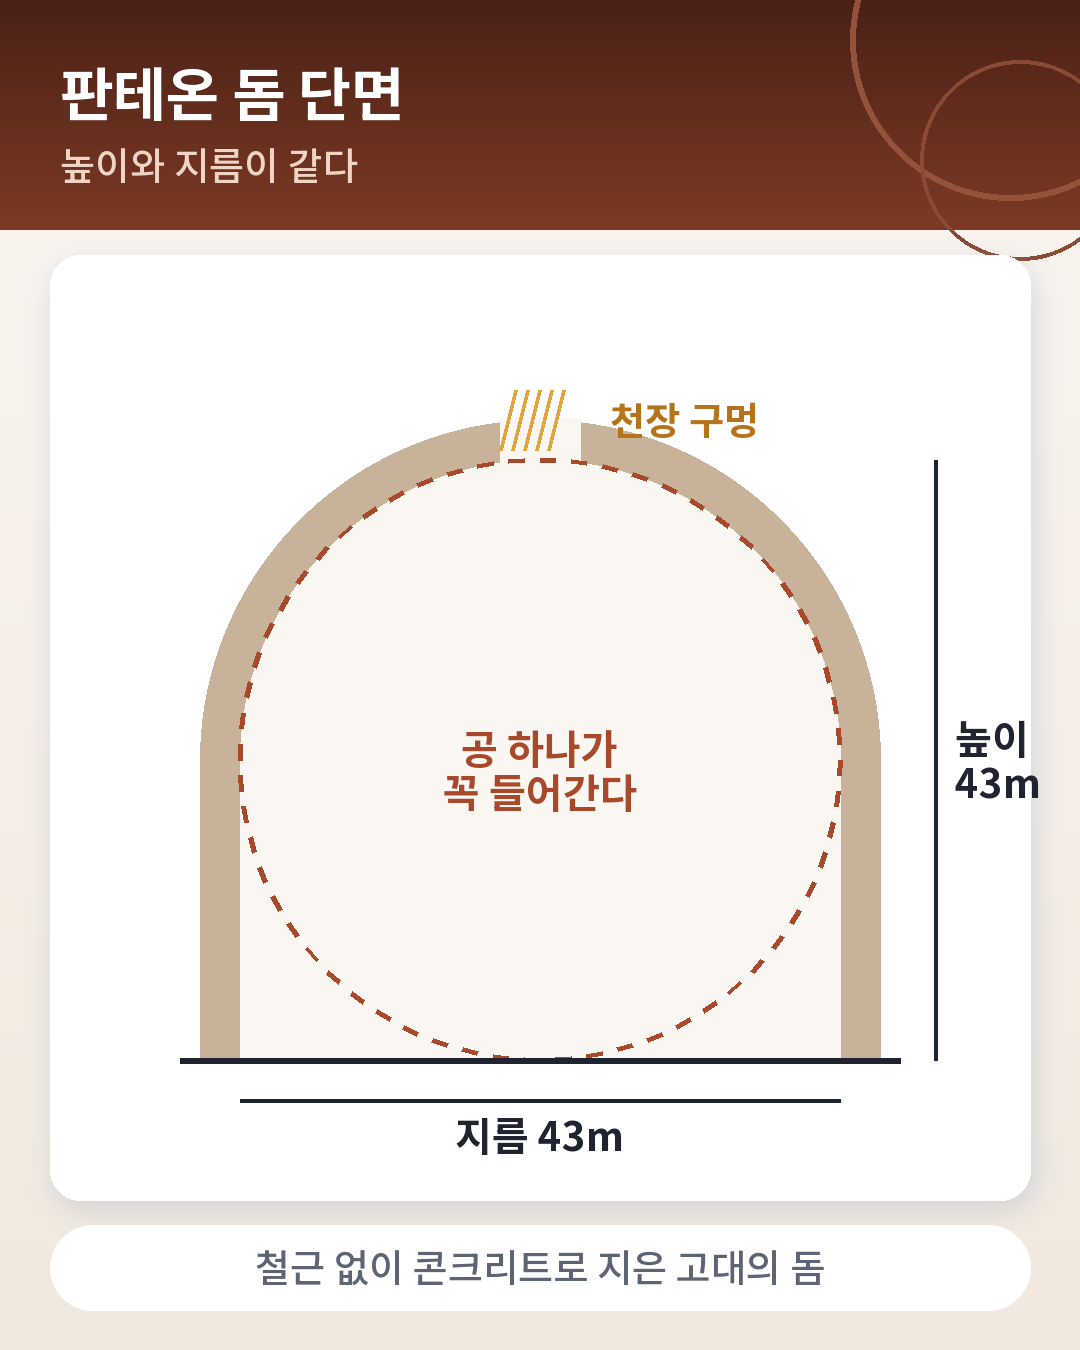
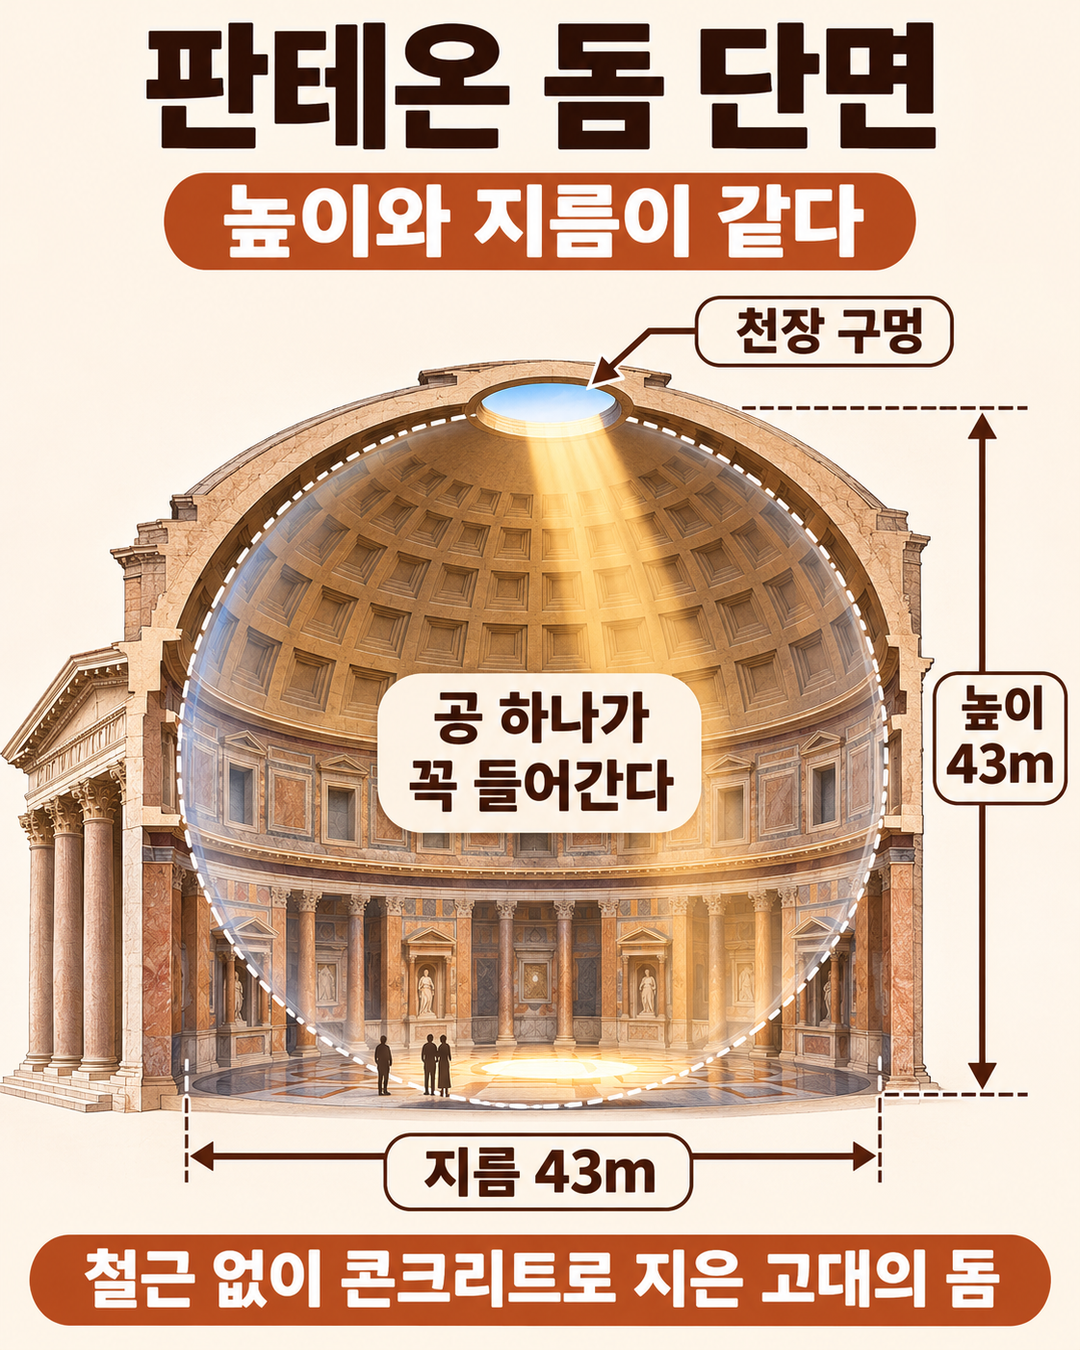
로마 편 05 판테온 돔 단면을 ChatGPT 단면 일러스트로 교체

diff --git a/문서/티스토리-히스토리가이드/20261122_로마-여행속역사/index.html b/문서/티스토리-히스토리가이드/20261122_로마-여행속역사/index.html
@@ -20,7 +20,7 @@
 02-로마-연표.png (AI, 4:5) — 건국 전설부터 이탈리아 수도·바티칸 시국까지 2,800년의 큰 흐름
 03-콜로세움.jpg (위키미디어 CC0, 3:2로 자름) — 콜로세움과 옆 포로 로마노가 실제로 어떻게 붙어 있는지
 04-판테온-정면.jpg (위키미디어 CC0 + AI가 글자 줄에 표시) — 본문에서 말하는 '아그리파' 글자가 어디에 있는지
-05-판테온-돔-단면.png (AI, 1:1) — 돔 높이와 지름이 같아 공이 꼭 들어간다는 뜻, 천장 구멍
+05-판테온-돔-단면.png (ChatGPT 제작, 사용자 요청으로 AI 도식을 바꿈, 4:5. 단면에 공이 돔 꼭대기와 바닥에 함께 닿는 모습·햇빛 줄기·사람 실루엣, 글자 정확, 크기만 1122×1402 → 1080×1350, 원본 scratchpad/backup/rome-05-original.png, AI 버전 rome-05-ai.png) — 돔 높이와 지름이 같아 공이 꼭 들어간다는 뜻, 천장 구멍
 06-아담의-창조.jpg (위키미디어 퍼블릭 도메인, 사용자 요청으로 자르지 않고 그림 전체를 씀, 1600×726) — 시스티나 천장의 가장 유명한 장면
 07-로마-파스타-가족.png (AI, 4:5) — 로마 파스타 네 가지가 재료를 나눠 쓰는 사이이고 무엇이 다른지(생겨난 순서 아님)
 08-함께-보면-좋은-글.png (공통 배너 밝은색)

diff --git a/티스토리-히스토리가이드-여행속역사-연재.md b/티스토리-히스토리가이드-여행속역사-연재.md
@@ -64,7 +64,7 @@
 ## 진행 상황 (2026-11-22 기준)
 - 2026-11-22: 2편 `문서/티스토리-히스토리가이드/20261122_로마-여행속역사/index.html` 작성(「[여행 속 역사 2편] 로마 여행 전에 읽는 2,800년 이야기」, 공백 포함 2,186자 — 새 기준 4,000자 이내 첫 적용). 도입은 판테온 정면 글귀 '아그리파가 지었다'(실제로는 하드리아누스가 다시 지음)라는 질문 → 1 흐름(연표) → 2 가볼 곳 셋(콜로세움·포로 로마노 / 판테온과 43m 돔 / 바티칸 박물관·시스티나 경당과 미켈란젤로, 「아테네 학당」은 이름만) → 3 카르보나라(1939 이름·1952 첫 레시피·1954 이탈리아, 유래 두 이야기)와 로마 파스타 가족 → '로마에서 고개를 들어 볼 세 곳' → 다음 편 수원 예고. h3 기호 ◆, h2 24px·h3 18px(새 형식).
   - 근거: 영어 위키백과 'Pantheon, Rome'·'Carbonara'(2차), 나머지 연도는 교과서 수준 일반 지식. 바티칸 박물관 공식 소개·UNESCO 원문은 대조하지 못함(발행 메모에 표시).
-  - 이미지 8장: AI 02 연표(고대/교황 두 색)·05 판테온 돔 단면(공이 꼭 들어감)·07 로마 파스타 가족(재료를 하나씩 더함), 위키미디어 CC0 03 콜로세움·04 판테온 정면(글귀에 빨간 표시와 '아그리파가 지었다' 띠를 더함), 퍼블릭 도메인 06 「아담의 창조」(사용자 요청으로 자르지 않고 전체), 08 배너는 `images/`에 있다. ChatGPT 01 타이틀('로마 여행 전 / 2,800년 이야기', 노을 콜로세움과 성 베드로 대성당 돔, 글자 정확, 둘째 줄 약 86%라 96%로 줄이고 거울 이음으로 채워 약 82%) 적용. 이미지 8장 완료, 대기 중인 요청 없음. 남은 일은 사용자의 티스토리 발행(링크 줄 교체)뿐이다. 머리띠는 테라코타색으로 갤럭시·반토막 글과 같은 틀. 스크립트 임시 폴더 rome/rome.py.
+  - 이미지 8장: AI 02 연표(고대/교황 두 색)·05 판테온 돔 단면(공이 꼭 들어감)·07 로마 파스타 가족(재료를 하나씩 더함), 위키미디어 CC0 03 콜로세움·04 판테온 정면(글귀에 빨간 표시와 '아그리파가 지었다' 띠를 더함), 퍼블릭 도메인 06 「아담의 창조」(사용자 요청으로 자르지 않고 전체), 08 배너는 `images/`에 있다. ChatGPT 01 타이틀('로마 여행 전 / 2,800년 이야기', 노을 콜로세움과 성 베드로 대성당 돔, 글자 정확, 둘째 줄 약 86%라 96%로 줄이고 거울 이음으로 채워 약 82%) 적용. 이미지 8장 완료. 이어서 사용자 요청으로 05 판테온 돔 단면을 ChatGPT 단면 일러스트(4:5, 공이 꼭 들어가는 모습·햇빛 줄기·사람 실루엣)로 다시 요청(AI 버전 백업 scratchpad/backup/rome-05-ai.png). 받은 그림(글자 정확, 공이 돔 꼭대기와 바닥에 함께 닿음)을 크기만 맞춰 적용해 이미지 8장 완료, 대기 중인 요청 없음. 남은 일은 사용자의 티스토리 발행(링크 줄 교체)뿐이다. 머리띠는 테라코타색으로 갤럭시·반토막 글과 같은 틀. 스크립트 임시 폴더 rome/rome.py.
   - 같은 날 외부 검수 여덟 가지 반영(공백 포함 2,351자): 서로마 멸망 뒤 교황 영향력은 '점차·8세기 교황령', 콜로세움 무너짐은 지진과 석재 재사용을 나눔, 판테온 돔 '지금도 가장 큼' 대신 '대표적 성과'·보존 이유 완화, 박물관 시작 '알려져 있다', 카르보나라 '지금 확인되는 초기 레시피', 파스타 네 가지는 '생겨난 순서 아님'. 그림 05 아래 문구·07 부제도 맞춤. **역사 흐름은 '곧바로 ~가 됐다'처럼 건너뛰지 말고 '점차·몇 세기에'를 붙인다. 원인이 여럿인 일(무너짐·보존)은 원인을 나눠 쓰고 하나로 단정하지 않는다. 음식 '가족' 비교는 생겨난 순서로 읽히지 않게 밝힌다.**
 - 2026-11-20: 사용자가 목차를 확정(경주·로마·수원·파리·빈, 일본은 제외하고 나중에 다시 제안)하고 1편을 시작했다. `문서/티스토리-히스토리가이드/20261120_02개/20261120_경주-여행속역사/index.html` 작성(제목 「[여행 속 역사 1편] 경주 여행 전에 읽는 신라 천 년 이야기」 — 접두어는 임시안, 공백 포함 반영 후 글자 수는 본문 메모 참고). 구성: 도입 두 줄 → 타이틀 → 1 천 년 수도 흐름(연표) → 2 가볼 곳 다섯(대릉원·천마총과 금관총 이사지왕 / 첨성대·선덕여왕 / 월정교·경덕왕 / 국립경주박물관·성덕대왕신종·에밀레 전설 / 불국사·석굴암·김대성) → 3 먹거리(황남빵) → 마지막 소제목 '경주를 한 바퀴 돌고 나면 남는 것' → 다음 편 로마 예고.
   - 근거는 한국어 위키백과(2차 자료) 요약이라 **한국민족문화대백과사전·국가유산청 원문과 대조는 하지 못했다**(발행 메모에 항목별로 표시). 한국민족문화대백과사전 검색 화면이 브라우저에서 결과를 보여 주지 않아 항목 번호를 찾지 못했다.

diff --git a/AGENTS.md b/AGENTS.md
@@ -225,7 +225,7 @@
 - 히스토리 가이드 후보(2026-11-15 제안, 4번 수능의 역사는 작성함): 한지 유네스코 등재(최종 결정 11.30~12.5 정부간위원회) / 김장 문화의 역사(김장철) / 단종과 영월 청령포('왕과 사는 남자' 흥행) / 순국선열의 날.
 
 ## 진행 상황 (2026-11-22 기준)
-- 2026-11-22: 히스토리가이드 「여행 속 역사」 2편 로마 `문서/티스토리-히스토리가이드/20261122_로마-여행속역사/index.html` 작성(공백 포함 2,186자, 티스토리 4,000자 이내 규칙 첫 적용). 이미지 8장 완료(ChatGPT 01 타이틀은 둘째 줄 약 86%라 96%로 줄여 적용), 대기 중인 요청 없음. 자세한 내용은 연재 파일.
+- 2026-11-22: 히스토리가이드 「여행 속 역사」 2편 로마 `문서/티스토리-히스토리가이드/20261122_로마-여행속역사/index.html` 작성(공백 포함 2,186자, 티스토리 4,000자 이내 규칙 첫 적용). 이미지 8장 완료(ChatGPT 01 타이틀은 둘째 줄 약 86%라 96%로 줄여 적용). 사용자 요청으로 05 판테온 돔 단면을 ChatGPT 단면 일러스트로 바꿈(글자 정확, 크기만 맞춤). 대기 중인 요청 없음. 자세한 내용은 연재 파일.
 - 2026-11-22: `문서/네이버-코딩가이드/20261122_반토막-본전-계산/index.html` 작성("반토막 난 투자, 본전까지 몇 % 올라야 할까?", 카테고리 경제·투자, 공백 포함 1,667자 — 3,000자 이하 기준, 설명은 그림으로 옮김). 네이트 관심뉴스 기준 제안 6개 중 1번(사용자가 전날 정해 둔 후보). 계기 뉴스(골드만 '108조 원 추가 매도' 경고 등)는 발행 메모에만.
   - 구성: 1,000만 → 500만 질문 → 타이틀 → h3 한 줄로 말하면(청록) → 왜 100%인가(기준이 바뀜) → 하락률별 본전 상승률(식 1 ÷ (1 − 하락률) − 1) → 같은 비율로 오르내리면(750만·990만) → 회복 기간(연 5·7·10% 가정, 나스닥 2000.3 고점 → 2002.10 약 -77.9% → 2015.4.23 회복, 야후 ^IXIC 일별 종가로 확인) → 물타기(평균 단가 약 6,667원, 본전 +33%, 2,500원이면 손실 125만 vs 75만) → '계좌를 열기 전에 계산해 볼 세 가지', 투자 권유 아님. h3 기호 ▷.
   - 이미지 7장: AI 02 기준이 바뀐다·03 하락률별 본전 상승률·04 같은 비율로 오르내리면·05 회복에 걸리는 시간·06 물타기 계산(모두 4:5, 갤럭시 S27 글과 같은 '머리띠·그림자 카드·아래 띠' 틀, 머리띠는 청록 계열, 상승 빨강·하락 파랑)과 07 배너(밝은색)는 `images/`에 있다. ChatGPT 01 타이틀('반토막 투자 / 본전까지 몇 %?', 금화·하락/상승 화살표·계단, 글자 정확, 가장 넓은 줄 약 83%, 글자 덩어리 중심 약 37%로 위쪽이지만 그림이 아래라 그대로 씀, 크기만 1254 → 1080px, 원본 scratchpad/backup/half-01-original.png) 적용. 이미지 7장 완료, 대기 중인 요청 없음. 남은 일은 사용자의 네이버 발행(링크 줄 교체)뿐이다. 스크립트 임시 폴더 half.py(s27b.py 도우미 사용). 같은 날 외부 검수 다섯 가지 반영(공백 포함 1,813자): 80% 하락 '다섯 배 = 400%' 풀어 씀, 변동성은 '줄어들 수 있다'로 완화, 회복 기간은 계산값 그대로(약 10.2·7.3·5.3년), 나스닥 '종가 기준·약 15년 1개월', 물타기 손실 두 경우를 나누고 차이 50만 원의 출처를 밝힘. **계산 글은 본문 숫자를 그림·계산값과 같은 자릿수로 맞추고, '많이 출렁이면 손실' 같은 경향은 '~할 수 있다'로 쓴다.** 링크 자리는 11/17 레버리지 ETF 글.
